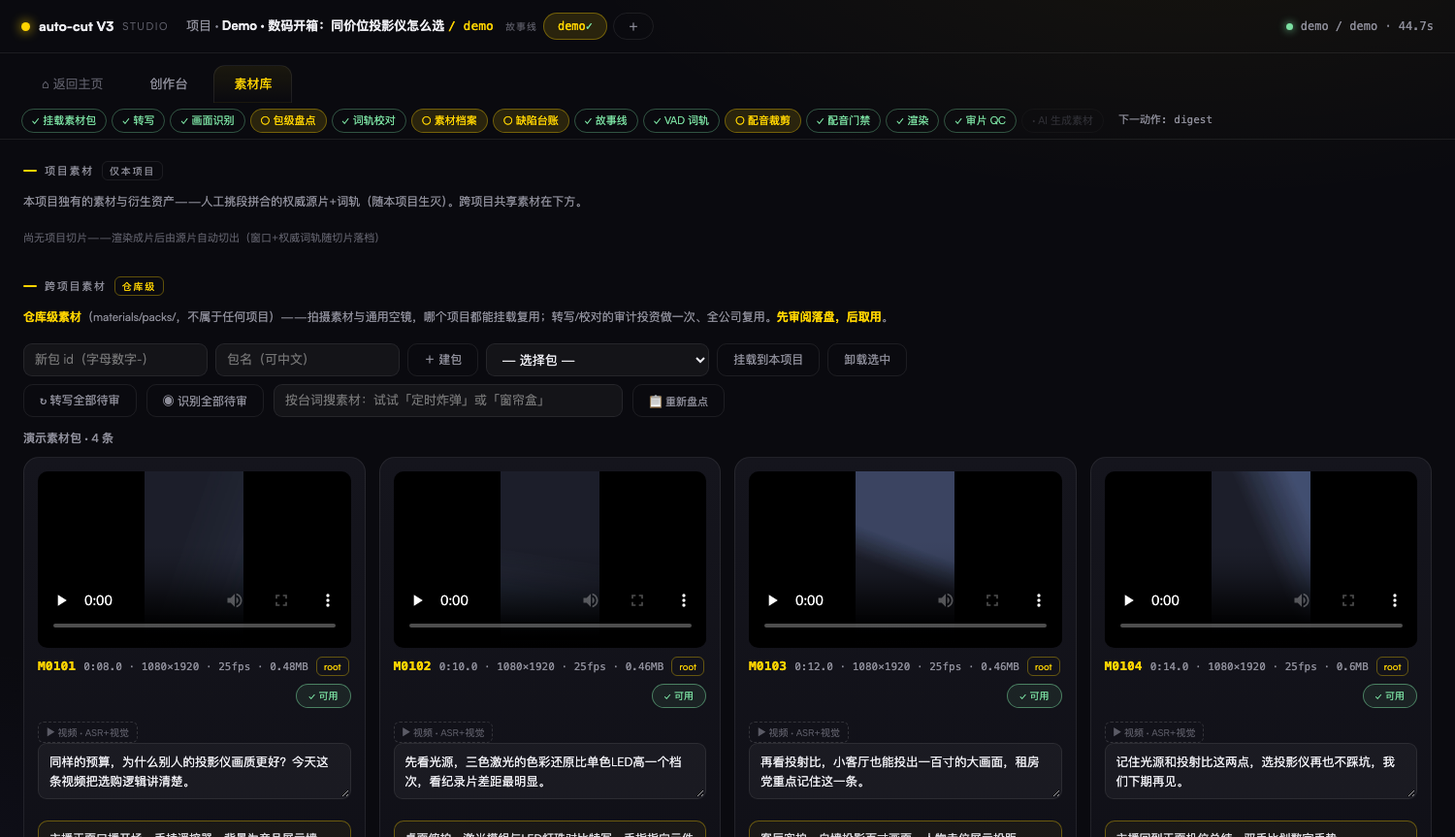
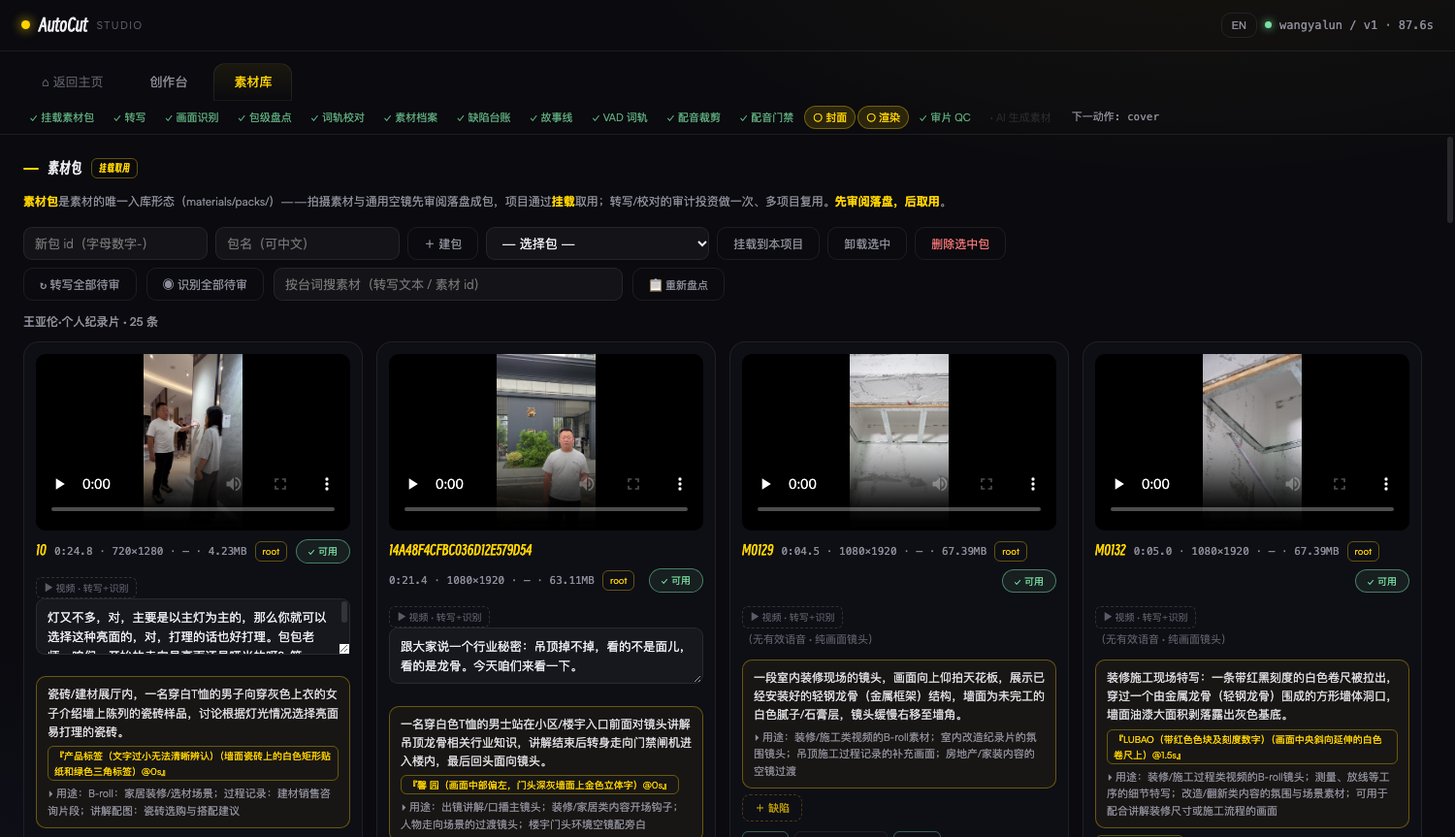
素材库包挂载口径改版 + 前端口径复查（假控件根修）+ 收口清扫
素材库页（Noah 裁定「项目素材/跨项目素材」过时——素材只以挂素材包入库）：
素材包区升顶改「挂载取用」口径，原项目素材区更名「项目切片」降底；
删项目确认/中英 i18n/README 同步，创作台来源下拉对齐「项目切片」。

假控件根修（UI 可设可落盘但后端零消费，grep 全仓铁证）：
- 人设 meta.persona 接进 AI 起草：draft.py _persona_section 注入提示词
  （零漂移纪律），run/CLI --persona/Studio aiDraft 全链带参，手册补载；
- 画幅氛围 meta.style.grade 全仓零消费 → meta 面板撤下拉（Noah 裁定）。

环境根修：studio listen backlog 5→64（_Srv 子类化，必须类属性）——
素材库一屏 25+ 媒体请求并发被内核拒连，T67 冒烟曾因此连红。

收口：孤儿 i18n 键 4 个中英 8 条清零（脚本化扫描），collectStory
t 遮蔽改 tk，README 三截图按新 UI 重拍，封面 tooltip 对齐枚举中文名。

锚 T68a-c（人设注入/零漂移/run 链路签名）；e2e fast 85/85、audit P1-3=0。

diff --git a/studio/index.html b/studio/index.html
@@ -399,12 +399,8 @@ input.req{width:100%;font-size:11px;color:var(--txt);background:rgba(255,255,255
 
 <!-- ═══════════ 操作页 · 素材库 ═══════════ -->
 <section id="s-library">
-  <div class="sec"><span data-i18n="lib.mine">项目素材</span> <span class="packtag" style="border-color:var(--line);color:var(--dim)" data-i18n="lib.mine.tag">仅本项目</span></div>
-  <div class="note" data-i18n="lib.minenote">本项目独有的素材与衍生资产——人工挑段拼合的权威源片+词轨（随本项目生灭）。跨项目共享素材在下方。</div>
-  <div class="libgrid" id="cutgrid"></div>
-
-  <div class="sec" style="margin-top:26px"><span data-i18n="lib.packs">跨项目素材</span> <span class="packtag" data-i18n="lib.packs.tag">仓库级</span></div>
-  <div class="note" data-i18n-html="lib.packsnote"><b class="k">仓库级素材</b>（materials/packs/，不属于任何项目）——拍摄素材与通用空镜，哪个项目都能挂载复用；转写/校对的审计投资做一次、全公司复用。<b class="k">先审阅落盘，后取用</b>。</div>
+  <div class="sec"><span data-i18n="lib.packs">素材包</span> <span class="packtag" data-i18n="lib.packs.tag">挂载取用</span></div>
+  <div class="note" data-i18n-html="lib.packsnote"><b class="k">素材包</b>是素材的唯一入库形态（materials/packs/）——拍摄素材与通用空镜先审阅落盘成包，项目通过<b class="k">挂载</b>取用；转写/校对的审计投资做一次、多项目复用。<b class="k">先审阅落盘，后取用</b>。</div>
   <div style="display:flex;gap:8px;align-items:center;margin-bottom:8px;flex-wrap:wrap">
     <input id="pk-id" data-i18n-ph="pk.id.ph" placeholder="新包 id（字母数字-）" style="max-width:190px">
     <input id="pk-name" data-i18n-ph="pk.name.ph" placeholder="包名（可中文）" style="max-width:190px">
@@ -423,6 +419,10 @@ input.req{width:100%;font-size:11px;color:var(--txt);background:rgba(255,255,255
     <span class="statusline" id="tallstat"></span>
   </div>
   <div id="packgroups"></div>
+
+  <div class="sec" style="margin-top:26px"><span data-i18n="lib.mine">项目切片</span> <span class="packtag" style="border-color:var(--line);color:var(--dim)" data-i18n="lib.mine.tag">仅本项目</span></div>
+  <div class="note" data-i18n="lib.minenote">本项目派生的切片资产——人工挑段拼合的权威源片+词轨（随本项目生灭）。拍摄素材在上方素材包。</div>
+  <div class="libgrid" id="cutgrid"></div>
 </section>
 </main>
 
@@ -448,7 +448,7 @@ zh:{
 'cfg.fmtnote':'画幅是项目级属性（registry/formats.json）：竖版 1080×1920 / 横版 1920×1080 / 方版 1080×1080。创建后进项目 → 素材库页挂载素材包。',
 'cfg.projects':'视频项目','cfg.projnote':'一个项目 = 一个工程，可含<b class="k">多条故事线</b>（同一批素材的不同成片取法）。',
 'cfg.registry':'全盘注册表','cfg.regnote':'注册表是人与 Agent 共用的选材资产库——改完保存即生效，下一次渲染使用新值。',
-'reg.video_types':'视频类型','reg.cover_strategies':'封面策略','reg.narration_modes':'旁白模式','reg.platforms':'平台','reg.voices':'声纹','reg.vtypes':'视频类型档案','reg.plats':'发布平台档案','reg.rhythm':'节奏','reg.draftprompt':'起草要求（进 AI 提示词）','pf.name':'名称','pf.desc':'描述','pf.sec.draft':'起草引导','pf.sec.defaults':'渲染默认值（未设=走回退链）','pf.sec.qc':'QC 时长域（出界 R11 告警；留空=不设）','pf.sec.anchor':'响度锚','pf.empty':'还没有档案——右上「＋ 新增条目」','pf.pick':'左侧选择一个档案','pf.consumers':'生效链：节奏与起草要求 → AI 起草提示词（Studio AI 起草 / draft --type 自动带上）；默认值 → 渲染时补未显式设置的字段；时长区间 → QC R11 出界告警。','pf.consumers.plat':'生效链：故事线 meta.platform → QC R6 响度判定 + 渲染后 loudnorm 两遍精修。','reg.def.subtitle':'默认字幕','reg.def.transition':'默认转场','reg.def.narration':'默认旁白','reg.def.cover':'默认封面策略','reg.qc.dur':'时长区间','reg.qc.min':'下限','reg.qc.max':'上限','reg.unset':'（未设）','reg.save':'保存','reg.lufs':'响度锚 LUFS','reg.lufstol':'容差 ±','reg.file.video_types':'每类型=剪辑方法参数包：节奏/起草要求进 AI 提示词，默认值(字幕/转场/旁白/封面)作渲染回退，QC 区间(如 {"duration_range":[20,120]})供 R11','reg.file.platforms':'每平台=响度锚：qc R6 判定与渲染后 loudnorm 精修都按故事线 meta.platform 查这里','msg.type.applied':'已按类型档案补默认：%s（显式已设的不动）',
+'reg.voices':'声纹','reg.vtypes':'视频类型档案','reg.plats':'发布平台档案','reg.rhythm':'节奏','reg.draftprompt':'起草要求（进 AI 提示词）','pf.name':'名称','pf.desc':'描述','pf.sec.draft':'起草引导','pf.sec.defaults':'渲染默认值（未设=走回退链）','pf.sec.qc':'QC 时长域（出界 R11 告警；留空=不设）','pf.sec.anchor':'响度锚','pf.empty':'还没有档案——右上「＋ 新增条目」','pf.pick':'左侧选择一个档案','pf.consumers':'生效链：节奏与起草要求 → AI 起草提示词（Studio AI 起草 / draft --type 自动带上）；默认值 → 渲染时补未显式设置的字段；时长区间 → QC R11 出界告警。','pf.consumers.plat':'生效链：故事线 meta.platform → QC R6 响度判定 + 渲染后 loudnorm 两遍精修。','reg.def.subtitle':'默认字幕','reg.def.transition':'默认转场','reg.def.narration':'默认旁白','reg.def.cover':'默认封面策略','reg.qc.dur':'时长区间','reg.qc.min':'下限','reg.qc.max':'上限','reg.unset':'（未设）','reg.save':'保存','reg.lufs':'响度锚 LUFS','reg.lufstol':'容差 ±','reg.file.video_types':'每类型=剪辑方法参数包：节奏/起草要求进 AI 提示词，默认值(字幕/转场/旁白/封面)作渲染回退，QC 区间(如 {"duration_range":[20,120]})供 R11','reg.file.platforms':'每平台=响度锚：qc R6 判定与渲染后 loudnorm 精修都按故事线 meta.platform 查这里','msg.type.applied':'已按类型档案补默认：%s（显式已设的不动）',
 'reg.manage':'管理 →','reg.empty':'空','reg.noruntime':'未装运行时','reg.single':'单故事线','reg.mgr':'注册表管理',
 'reg.add':'＋ 新增条目','reg.import':'⬆ 导入素材文件','dlg.close':'✕ 关闭',
 'reg.fmtnote':'文件格式：%s · 注册表是人与 Agent 共用的选材事实源——改完保存即生效，下一次渲染使用新值',
@@ -463,8 +463,9 @@ zh:{
 'cr.beats':'幕序列 · 每幕是多轨上的一刀',
 'cr.beatsnote':'最左一张是<b class="k">封面收口</b>（第 0 张，永远钉在最左侧）。横向即时间轴方向。<b class="k">A 轨</b>主画定时长，<b class="k">B 轨</b>叠加。贴纸按<b class="k">词点</b>触发，音效按<b class="k">幕内时刻</b>混入。改动即结论——<b class="k">自动落盘</b>（停顿 1 秒后保存，右上角芯片可见状态）；金线上的 <b class="k">＋</b> 可在任意幕间插入新幕。',
 'cr.cover':'封面收口','cr.cover.hint':'第 0 张 · 钉在最左',
-'meta.stitle':'故事线标题','meta.type':'视频类型','meta.persona':'人设','meta.platform':'平台','meta.subtitle':'字幕风格','meta.bgm':'BGM','meta.bgmseg':'BGM 段落','meta.bgmloop':'BGM 循环','meta.bgmvol':'BGM 音量','meta.grade':'画幅氛围',
-'meta.bgm.t':'全片底乐，注册表选曲；（无）= 不配乐。Agent 起草用的是同一张注册表','meta.bgmseg.t':'贯穿曲默认段落；幕级音乐轨可再覆盖','meta.bgmloop.t':'段/曲短于所需时长时：自动=按曲长、循环=强制 aloop、不循环=播完补静音','meta.bgmvol.t':'BGM 相对音量 0–1（默认 0.22）','cov.strategy.t':'帧截图=素材代表帧（含人封面唯一真脸路线）/ ai-generated=代表帧底图+提示词保主体生成（底图含真人脸会被平台审核拦）/ output-frame=渲染后成片抽帧 / upload=已上传图','cov.title.t':'核心故事标题——管线本地 drawtext 合成到封面上部（确定性渲染，无假字风险）','cov.beat.t.ai':'AI 底图取自该幕','cov.beat.t.frame':'封面取自该幕','msg.badresp':'服务返回异常','view.words':' 词 · ','view.beats2':' 幕 · ','meta.grade.natural':'自然','mus.bgm.t':'幕级换曲（注册表）','meta.grade.warm':'暖调','meta.grade.cool':'冷调','meta.nobgm':'（无 BGM）','meta.auto':'自动','meta.loop':'循环','meta.noloop':'不循环',
+'meta.stitle':'故事线标题','meta.type':'视频类型','meta.persona':'人设','meta.platform':'平台','meta.subtitle':'字幕风格','meta.bgm':'BGM','meta.bgmseg':'BGM 段落','meta.bgmloop':'BGM 循环','meta.bgmvol':'BGM 音量',
+'meta.persona.t':'讲述者人设——AI 起草时注入提示词，台词与叙事口吻贴合它',
+'meta.bgm.t':'全片底乐，注册表选曲；（无）= 不配乐。Agent 起草用的是同一张注册表','meta.bgmseg.t':'贯穿曲默认段落；幕级音乐轨可再覆盖','meta.bgmloop.t':'段/曲短于所需时长时：自动=按曲长、循环=强制 aloop、不循环=播完补静音','meta.bgmvol.t':'BGM 相对音量 0–1（默认 0.22）','cov.strategy.t':'首帧封面/指定幕帧=素材代表帧+标题本地合成（含真人脸封面的唯一保真路线）/ AI 生成封面=代表帧底图+提示词保主体生成（底图含真人脸会被平台审核拦）/ 成片抽帧=渲染后从成片抽（封面=发布产物本体）/ 外部上传=设计稿直传','cov.title.t':'核心故事标题——管线本地 drawtext 合成到封面上部（确定性渲染，无假字风险）','cov.beat.t.ai':'AI 底图取自该幕','cov.beat.t.frame':'封面取自该幕','msg.badresp':'服务返回异常','view.words':' 词 · ','view.beats2':' 幕 · ','mus.bgm.t':'幕级换曲（注册表）','meta.nobgm':'（无 BGM）','meta.auto':'自动','meta.loop':'循环','meta.noloop':'不循环',
 'cov.strategy':'封面策略','cov.title':'封面标题','cov.beat':'底图幕号','cov.at':'幕内秒','cov.prompt':'提示词',
 'cov.prompt.ph':'保持参考图场景不变，暖色自然光，背景轻微虚化，上半部分留白',
 'cov.prompt.hint':'提示词写法：① 开头固定「保持参考图主体/场景不变」② 只写风格方向（色调/光线/氛围/构图），≤1500 字 ③ 注明「上半部分留白」（标题由管线本地合成在上部）④ <b>禁写「画面出现文字/标题」</b>——AI 画中文=假字 ⑤ 底图含真人脸会被平台审核拦截——含人封面请改用「首帧/指定幕帧」+标题',
@@ -484,8 +485,8 @@ zh:{
 'sub.meta':'精确字幕 · 素材原声转写 · 窗口 %s–%s · 只读（改错字→素材库校对该素材转写；自己写台词→旁白轨切配音；换内容→换素材或改入点/时长）',
 'sub.style.t':'幕级字幕样式（注册表）；留空=继承全局','nar.mode.t':'切换后字幕轨随之分流：dub=台词可编辑 / original=原声转写只读 / none=静音无字幕',
 'mus.inherit':'继承贯穿 BGM','mus.nobgm':'（此幕无 BGM）','mus.seg':'段落','mus.loop':'循环','mus.seg.t':'选用曲内段落（注册表 segments）','mus.loop.t':'段/曲短于幕时循环盖满；取消=播完即静音','mus.noseg':'该曲无段落','mus.whole':'（整条）',
-'lib.mine':'项目素材','lib.mine.tag':'仅本项目','lib.minenote':'本项目独有的素材与衍生资产——人工挑段拼合的权威源片+词轨（随本项目生灭）。跨项目共享素材在下方。',
-'lib.packs':'跨项目素材','lib.packs.tag':'仓库级','lib.packsnote':'<b class="k">仓库级素材</b>（materials/packs/，不属于任何项目）——拍摄素材与通用空镜，哪个项目都能挂载复用；转写/校对的审计投资做一次、全公司复用。<b class="k">先审阅落盘，后取用</b>。',
+'lib.mine':'项目切片','lib.mine.tag':'仅本项目','lib.minenote':'本项目派生的切片资产——人工挑段拼合的权威源片+词轨（随本项目生灭）。拍摄素材在上方素材包。',
+'lib.packs':'素材包','lib.packs.tag':'挂载取用','lib.packsnote':'<b class="k">素材包</b>是素材的唯一入库形态（materials/packs/）——拍摄素材与通用空镜先审阅落盘成包，项目通过<b class="k">挂载</b>取用；转写/校对的审计投资做一次、多项目复用。<b class="k">先审阅落盘，后取用</b>。',
 'pk.id.ph':'新包 id（字母数字-）','pk.name.ph':'包名（可中文）','pk.create':'＋ 建包','pk.mount':'挂载到本项目','pk.unmount':'卸载选中','pk.pick':'— 选择包 —','pk.mounted':'（已挂）',
 'pk.tall':'↻ 转写全部待审','pk.uall':'◉ 识别全部待审','pk.search.ph':'按台词搜素材（转写文本 / 素材 id）','pk.digest':'📋 重新盘点','pk.digest.t':'包级统一理解：导演视角盘点全部素材（题材/资产清单/逐条定位/缺口）。识别有增删后建议重跑——draft 起草会以它开头',
 'pk.empty':'还没有挂载素材包——上方「＋ 建包」后上传素材，或从下拉挂载已有包；挂载后点「↻ 转写全部待审」开始审计',
@@ -501,7 +502,7 @@ zh:{
 'pulse.rendering':'⚙ 渲染中（%s）[%s] %s%——后台/命令行启动的渲染也能看到',
 'msg.unsaved.confirm':'当前故事线有未保存修改，切换将丢弃——继续？',
 'msg.delstory.confirm':'删除故事线「%s」？成片/字幕/预览一并归档到 projects/_attic/，可手工找回。',
-'msg.delproj.confirm':'删除项目「%s」？整个工程目录归档到 projects/_attic/；跨项目素材是仓库级资产，不受影响。',
+'msg.delproj.confirm':'删除项目「%s」？整个工程目录归档到 projects/_attic/；素材包是独立资产（materials/packs/），不受影响。',
 'msg.delbeat.confirm':'删除幕 #%s？自动落盘后不可找回（整条幕的轨道/贴纸/音效一并消失）',
 'msg.deltrack.confirm':'删除该 B 轨叠加？自动落盘后不可找回',
 'msg.deldef.confirm':'删除这条缺陷标记（%s @ %ss）？','msg.delcutdef.confirm':'删除这条缺陷标记？',
@@ -515,7 +516,7 @@ zh:{
 'voice.pickfile.err':'✗ 先选参考音频文件','voice.name.err':'✗ 音色名只能英文/数字/._-','voice.text.err':'✗ 逐字稿必填（零样本克隆硬契约）','voice.registering':'注册中（零样本克隆推理中，请稍候）…','voice.registered':'✓ 已注册 %s','voice.regfail':'注册失败','voice.synth':'试听合成中…（已 %ss，本地 CPU 推理）','voice.testready':'✓ 试听已生成，加载播放中…','voice.playing':'✓ 试听播放中（生成 %ss）','voice.autoplay':'✓ 试听已生成（浏览器拦截自动播放，点页面任意处再听）','voice.testfail':'试听失败','voice.del.confirm':'删除音色 %s？',
 'msg.deleted':'✓ 已删除 %s','msg.delfail':'删除失败','msg.createfail':'创建失败：','msg.savefail':'保存失败：','msg.importfail':'导入失败：',
 'cfg.pdel.t':'删除项目（归档到 _attic，可找回）','reg.bgm':'BGM','reg.subtitles':'字幕样式','reg.transitions':'转场','reg.sfx':'音效','reg.stickers':'贴纸','reg.sample':'样字','msg.regdel.confirm':'删除条目「%s」？\n（素材文件保留在 assets/，可再导入恢复）','msg.regimport.idp':'条目 id（Agent 用它引用）：','msg.regimport.dup':'id 已存在','msg.regadd.idp':'新条目 id（字母/数字/下划线/中划线，Agent 用它引用）：',
-'src.project':'（项目自有切片）','src.project.suffix':' · 项目自有',
+'src.project':'（项目切片）','src.project.suffix':' · 项目切片',
 'msg.wizard.noname':'先填项目名','msg.wizard.done':'✓ 项目已创建：%s',
 'msg.pk.noid':'先填包 id','msg.pk.created':'✓ 已建包 %s','msg.pk.fail':'建包失败：','msg.pk.nosel':'先选包','msg.pk.mountok':'已挂载','msg.pk.unmountok':'已卸载','msg.pk.fail2':'%s失败：%s\n（挂载要求包已存在；卸载不删包本身，素材仍在 materials/packs/）','msg.pk.reqfail':'挂载/卸载请求失败：','pk.del':'删除选中包','msg.pk.delconfirm':'删除包「%s」？\n（归档到 materials/_attic 可找回；所有项目的挂载一并摘除）','msg.pk.delok':'已删除（归档）','cfg.stories':'%s 条故事线','cfg.stories.done':'%s 条已出片',
 'msg.draft.d':'用开场钩子+空镜，起一条 3 幕口播线','msg.draft.busy':'✨ 起草中…（约1分钟）','msg.draft.busy2':'AI 正在读素材档案起草故事线…','msg.draft.done':'✓ AI 草稿已落盘：%s 幕 · %s','msg.draft.fail':'起草失败：',
@@ -540,7 +541,7 @@ en:{
 'cfg.fmtnote':'Format is project-level (registry/formats.json): vertical 1080×1920 / landscape 1920×1080 / square 1080×1080. After creating, open the project → Library tab to mount packs.',
 'cfg.projects':'Video projects','cfg.projnote':'A project = one workspace, may hold <b class="k">multiple storylines</b> (different cuts of the same materials).',
 'cfg.registry':'Global registries','cfg.regnote':'Registries are a shared material library for humans and Agents — changes take effect on save; the next render uses the new values.',
-'reg.video_types':'Video types','reg.cover_strategies':'Cover strategies','reg.narration_modes':'Narration modes','reg.platforms':'Platforms','reg.voices':'Voices','reg.vtypes':'Video type profiles','reg.plats':'Platform profiles','reg.rhythm':'Rhythm','reg.draftprompt':'Drafting prompt (fed to AI)','pf.name':'Name','pf.desc':'Description','pf.sec.draft':'Drafting guidance','pf.sec.defaults':'Render defaults (unset = fallback chain)','pf.sec.qc':'QC duration domain (out of range -> R11 warn; empty = none)','pf.sec.anchor':'Loudness anchor','pf.empty':'No profiles yet - use the Add button top right','pf.pick':'Pick a profile on the left','pf.consumers':'Effect chain: rhythm & drafting prompt -> the AI drafting prompt (Studio AI draft / draft --type carries it); defaults -> render fills unset fields; duration range -> QC R11 out-of-range warn.','pf.consumers.plat':'Effect chain: storyline meta.platform -> QC R6 loudness verdict + post-render two-pass loudnorm refinement.','reg.def.subtitle':'Default subtitle','reg.def.transition':'Default transition','reg.def.narration':'Default narration','reg.def.cover':'Default cover strategy','reg.qc.dur':'Duration range','reg.qc.min':'min','reg.qc.max':'max','reg.unset':'(unset)','reg.save':'Save','reg.lufs':'LUFS anchor','reg.lufstol':'Tolerance ±','reg.file.video_types':'Each type = an editing-method parameter pack: rhythm/drafting prompt go into the AI prompt, defaults (subtitle/transition/narration/cover) act as render fallbacks, QC range (e.g. {"duration_range":[20,120]}) feeds R11','reg.file.platforms':'Each platform = a loudness anchor: qc R6 and the post-render loudnorm refinement both resolve it from the storyline\'s meta.platform','msg.type.applied':'Applied type-profile defaults: %s (explicit settings untouched)',
+'reg.voices':'Voices','reg.vtypes':'Video type profiles','reg.plats':'Platform profiles','reg.rhythm':'Rhythm','reg.draftprompt':'Drafting prompt (fed to AI)','pf.name':'Name','pf.desc':'Description','pf.sec.draft':'Drafting guidance','pf.sec.defaults':'Render defaults (unset = fallback chain)','pf.sec.qc':'QC duration domain (out of range -> R11 warn; empty = none)','pf.sec.anchor':'Loudness anchor','pf.empty':'No profiles yet - use the Add button top right','pf.pick':'Pick a profile on the left','pf.consumers':'Effect chain: rhythm & drafting prompt -> the AI drafting prompt (Studio AI draft / draft --type carries it); defaults -> render fills unset fields; duration range -> QC R11 out-of-range warn.','pf.consumers.plat':'Effect chain: storyline meta.platform -> QC R6 loudness verdict + post-render two-pass loudnorm refinement.','reg.def.subtitle':'Default subtitle','reg.def.transition':'Default transition','reg.def.narration':'Default narration','reg.def.cover':'Default cover strategy','reg.qc.dur':'Duration range','reg.qc.min':'min','reg.qc.max':'max','reg.unset':'(unset)','reg.save':'Save','reg.lufs':'LUFS anchor','reg.lufstol':'Tolerance ±','reg.file.video_types':'Each type = an editing-method parameter pack: rhythm/drafting prompt go into the AI prompt, defaults (subtitle/transition/narration/cover) act as render fallbacks, QC range (e.g. {"duration_range":[20,120]}) feeds R11','reg.file.platforms':'Each platform = a loudness anchor: qc R6 and the post-render loudnorm refinement both resolve it from the storyline\'s meta.platform','msg.type.applied':'Applied type-profile defaults: %s (explicit settings untouched)',
 'reg.manage':'Manage →','reg.empty':'empty','reg.noruntime':'runtime not installed','reg.single':'single storyline','reg.mgr':'Registry manager',
 'reg.add':'＋ Add entry','reg.import':'⬆ Import asset file','dlg.close':'✕ Close',
 'reg.fmtnote':'File: %s · Registries are the shared source of truth for humans and agents — saved changes apply to the next render',
@@ -555,8 +556,9 @@ en:{
 'cr.beats':'Beat sequence · each beat is one cut on the timeline',
 'cr.beatsnote':'The leftmost card is the <b class="k">cover</b> (card 0, always pinned first). Horizontal = timeline direction. <b class="k">A track</b> is the main picture and sets duration; <b class="k">B track</b> overlays. Stickers trigger on <b class="k">words</b>, SFX mix at <b class="k">beat-relative times</b>. Edits are conclusions — <b class="k">autosaved</b> (1s after you pause; watch the chip top-right); the <b class="k">＋</b> on the gold line inserts a beat anywhere.',
 'cr.cover':'Cover','cr.cover.hint':'Card 0 · pinned left',
-'meta.stitle':'Storyline title','meta.type':'Video type','meta.persona':'Persona','meta.platform':'Platform','meta.subtitle':'Subtitle style','meta.bgm':'BGM','meta.bgmseg':'BGM segment','meta.bgmloop':'BGM loop','meta.bgmvol':'BGM volume','meta.grade':'Grade',
-'meta.bgm.t':'Whole-film bed music from the registry; (none) = no music. The drafting agent reads the same registry','meta.bgmseg.t':'Default segment of the through-track; beat-level music can override','meta.bgmloop.t':'When segment/track is shorter than needed: Auto = by track length, Loop = force aloop, No loop = pad silence','meta.bgmvol.t':'BGM relative volume 0-1 (default 0.22)','cov.strategy.t':'beat-frame = representative material frame (only real-face route for people covers) / ai-generated = base frame + prompt preserving subject (real faces in base get blocked by platform review) / output-frame = frame from the rendered cut / upload = uploaded image','cov.title.t':'Core story title — composited onto the upper area by local drawtext (deterministic, no fake glyphs)','cov.beat.t.ai':'AI base image taken from this beat','cov.beat.t.frame':'Cover taken from this beat','msg.badresp':'service returned an error','view.words':' words · ','view.beats2':' beats · ','meta.grade.natural':'Natural','mus.bgm.t':'Beat-level track override (registry)','meta.grade.warm':'Warm','meta.grade.cool':'Cool','meta.nobgm':'(No BGM)','meta.auto':'Auto','meta.loop':'Loop','meta.noloop':'No loop',
+'meta.stitle':'Storyline title','meta.type':'Video type','meta.persona':'Persona','meta.platform':'Platform','meta.subtitle':'Subtitle style','meta.bgm':'BGM','meta.bgmseg':'BGM segment','meta.bgmloop':'BGM loop','meta.bgmvol':'BGM volume',
+'meta.persona.t':'Narrator persona — injected into the AI drafting prompt; lines and tone follow it',
+'meta.bgm.t':'Whole-film bed music from the registry; (none) = no music. The drafting agent reads the same registry','meta.bgmseg.t':'Default segment of the through-track; beat-level music can override','meta.bgmloop.t':'When segment/track is shorter than needed: Auto = by track length, Loop = force aloop, No loop = pad silence','meta.bgmvol.t':'BGM relative volume 0-1 (default 0.22)','cov.strategy.t':'first-frame/beat-frame = representative material frame + locally composited title (the only real-face route for people covers) / ai-generated = base frame + prompt preserving subject (real faces in base get blocked by platform review) / output-frame = frame from the rendered cut / upload = uploaded image','cov.title.t':'Core story title — composited onto the upper area by local drawtext (deterministic, no fake glyphs)','cov.beat.t.ai':'AI base image taken from this beat','cov.beat.t.frame':'Cover taken from this beat','msg.badresp':'service returned an error','view.words':' words · ','view.beats2':' beats · ','mus.bgm.t':'Beat-level track override (registry)','meta.nobgm':'(No BGM)','meta.auto':'Auto','meta.loop':'Loop','meta.noloop':'No loop',
 'cov.strategy':'Cover strategy','cov.title':'Cover title','cov.beat':'Base beat','cov.at':'Offset (s)','cov.prompt':'Prompt',
 'cov.prompt.ph':'Keep the reference scene unchanged, warm natural light, slight background blur, leave the top empty',
 'cov.prompt.hint':'Prompt rules: ① start with "keep the reference subject/scene unchanged" ② describe style only (tone/light/mood/composition), ≤1500 chars ③ state "leave the upper area empty" (the title is composited locally by the pipeline) ④ <b>never ask for text/titles in the image</b> — AI renders fake glyphs ⑤ real faces in the base image get blocked by platform review — for people covers use "first frame / beat frame" + title instead',
@@ -576,8 +578,8 @@ en:{
 'sub.meta':'Precise subtitles · source transcript · window %s–%s · read-only (fix typos → proofread the material in Library; write your own lines → switch Narration to dub; different content → swap material or in/duration)',
 'sub.style.t':'Beat-level subtitle style (registry); empty = inherit global','nar.mode.t':'Subtitles follow the mode: dub = editable lines / original = source transcript read-only / none = silent',
 'mus.inherit':'Inherit global BGM','mus.nobgm':'(no BGM this beat)','mus.seg':'Segment','mus.loop':'Loop','mus.seg.t':'Pick an intra-track segment (registry segments)','mus.loop.t':'Loop to cover when the segment/track is shorter than the beat; off = silence after it ends','mus.noseg':'No segments on this track','mus.whole':'(whole track)',
-'lib.mine':'Project materials','lib.mine.tag':'this project only','lib.minenote':'Materials and derived assets owned by this project — hand-picked source cuts with authoritative word tracks (live and die with the project). Cross-project shared materials below.',
-'lib.packs':'Shared materials','lib.packs.tag':'repo-wide','lib.packsnote':'<b class="k">Repo-wide materials</b> (materials/packs/, owned by no project) — shoots and generic b-roll, mountable by any project; transcribe/proofread once, reuse everywhere. <b class="k">Review and file first, then use</b>.',
+'lib.mine':'Project cuts','lib.mine.tag':'this project only','lib.minenote':'Cut assets derived within this project — hand-picked source clips with authoritative word tracks (live and die with the project). Footage lives in the packs above.',
+'lib.packs':'Material packs','lib.packs.tag':'mount to use','lib.packsnote':'<b class="k">Material packs</b> are the only way materials enter the library (materials/packs/) — shoots and generic b-roll are reviewed and filed into packs first, then mounted into projects; transcribe/proofread once, reuse across projects. <b class="k">Review and file first, then use</b>.',
 'pk.id.ph':'New pack id (letters/digits/-)','pk.name.ph':'Pack name (any language)','pk.create':'＋ New pack','pk.mount':'Mount to this project','pk.unmount':'Unmount selected','pk.pick':'— Pick a pack —','pk.mounted':'(mounted)',
 'pk.tall':'↻ Transcribe all pending','pk.uall':'◉ Identify all pending','pk.search.ph':'Search by transcript text or material id','pk.digest':'📋 Re-digest','pk.digest.t':'Pack-level unified understanding: director-view inventory (theme/assets/per-clip roles/gaps). Re-run after identifications change — drafting starts from it',
 'pk.empty':'No packs mounted yet — "＋ New pack" above then upload materials, or mount an existing pack from the dropdown; then "↻ Transcribe all pending" to start auditing',
@@ -593,7 +595,7 @@ en:{
 'pulse.rendering':'⚙ Rendering (%s) [%s] %s% — visible even for CLI/background renders',
 'msg.unsaved.confirm':'Current storyline has unsaved changes; switching discards them — continue?',
 'msg.delstory.confirm':'Delete storyline "%s"? Final cut/subtitles/previews are archived to projects/_attic/ — manually recoverable.',
-'msg.delproj.confirm':'Delete project "%s"? The whole workspace is archived to projects/_attic/; shared packs are repo-level assets and unaffected.',
+'msg.delproj.confirm':'Delete project "%s"? The whole workspace is archived to projects/_attic/; material packs are standalone assets (materials/packs/) and unaffected.',
 'msg.delbeat.confirm':'Delete beat #%s? Unrecoverable after autosave (its tracks/stickers/SFX go with it)',
 'msg.deltrack.confirm':'Delete this B-track overlay? Unrecoverable after autosave',
 'msg.deldef.confirm':'Delete this defect mark (%s @ %ss)?','msg.delcutdef.confirm':'Delete this defect mark?',
@@ -607,7 +609,7 @@ en:{
 'voice.pickfile.err':'✗ Pick a reference audio file first','voice.name.err':'✗ Voice name allows only letters/digits/._-','voice.text.err':'✗ Transcript is required (zero-shot cloning hard contract)','voice.registering':'Registering (zero-shot cloning inference, please wait)…','voice.registered':'✓ Registered %s','voice.regfail':'registration failed','voice.synth':'Synthesizing sample… (%ss elapsed, local CPU inference)','voice.testready':'✓ Sample ready, loading…','voice.playing':'✓ Sample playing (generated in %ss)','voice.autoplay':'✓ Sample ready (browser blocked autoplay — click anywhere to hear it)','voice.testfail':'sample failed','voice.del.confirm':'Delete voice %s?',
 'msg.deleted':'✓ Deleted %s','msg.delfail':'delete failed','msg.createfail':'Create failed: ','msg.savefail':'Save failed: ','msg.importfail':'Import failed: ',
 'cfg.pdel.t':'Delete project (archived to _attic, recoverable)','reg.bgm':'BGM','reg.subtitles':'Subtitle styles','reg.transitions':'Transitions','reg.sfx':'SFX','reg.stickers':'Stickers','reg.sample':'Aa','msg.regdel.confirm':'Delete entry "%s"?\n(the asset file stays in assets/ and can be re-imported)','msg.regimport.idp':'Entry id (the agent references it):','msg.regimport.dup':'id already exists','msg.regadd.idp':'New entry id (letters/digits/underscore/dash, the agent references it):',
-'src.project':'(project cuts)','src.project.suffix':' · project-owned',
+'src.project':'(project cuts)','src.project.suffix':' · project cut',
 'msg.wizard.noname':'Enter a project name first','msg.wizard.done':'✓ Project created: %s',
 'msg.pk.noid':'Enter a pack id first','msg.pk.created':'✓ Pack created: %s','msg.pk.fail':'Create pack failed: ','msg.pk.nosel':'Pick a pack first','msg.pk.mountok':'Mounted','msg.pk.unmountok':'Unmounted','msg.pk.fail2':'%s failed: %s\n(mounting requires the pack to exist; unmounting does not delete the pack — materials stay in materials/packs/)','msg.pk.reqfail':'Mount/unmount request failed: ','pk.del':'Delete selected pack','msg.pk.delconfirm':'Delete pack "%s"?\n(archived to materials/_attic, recoverable; removed from every project\'s mounts)','msg.pk.delok':'Deleted (archived)','cfg.stories':'%s storylines','cfg.stories.done':'%s rendered',
 'msg.draft.d':'draft a 3-beat narration line with a hook opener and b-roll','msg.draft.busy':'✨ Drafting… (~1 min)','msg.draft.busy2':'AI is reading the material dossier and drafting a storyline…','msg.draft.done':'✓ AI draft saved: %s beats · %s','msg.draft.fail':'Draft failed: ',
@@ -1209,14 +1211,13 @@ function buildCreator(){
   $('metabar').innerHTML=
     '<div class="mf"><label data-i18n="meta.stitle">'+esc(t('meta.stitle'))+'</label><input type="text" value="'+esc(DRAFT.title||'')+'" oninput="DRAFT.title=this.value"></div>'+
     '<div class="mf"><label data-i18n="meta.type">'+esc(t('meta.type'))+'</label><select onchange="onTypeChange(this.value)">'+optHtml(en.video_types,m.type)+'</select><span id="vtype-hint" style="font-size:10px;color:var(--faint)">'+esc(vtypeHint(m.type))+'</span></div>'+
-    '<div class="mf"><label data-i18n="meta.persona">'+esc(t('meta.persona'))+'</label><input type="text" value="'+esc(m.persona)+'" oninput="DRAFT.meta.persona=this.value"></div>'+
+    '<div class="mf"><label data-i18n="meta.persona">'+esc(t('meta.persona'))+'</label><input type="text" value="'+esc(m.persona)+'" oninput="DRAFT.meta.persona=this.value" title="'+esc(t('meta.persona.t'))+'"></div>'+
     '<div class="mf"><label data-i18n="meta.platform">'+esc(t('meta.platform'))+'</label><select onchange="onPlatformChange(this.value)">'+optHtml(en.platforms,m.platform)+'</select><span id="plat-hint" style="font-size:10px;color:var(--faint)">'+esc(platformHint(m.platform))+'</span></div>'+
     '<div class="mf"><label data-i18n="meta.subtitle">'+esc(t('meta.subtitle'))+'</label><select onchange="DRAFT.meta.style.subtitle=this.value">'+optHtml(regList('subtitles'),m.style.subtitle)+'</select></div>'+
     '<div class="mf"><label data-i18n="meta.bgm">'+esc(t('meta.bgm'))+'</label><select onchange="DRAFT.meta.audio.bgm_id=this.value||null;renderBeats()" title="'+esc(t('meta.bgm.t'))+'">'+optHtml([{id:'',name:t('meta.nobgm')}].concat(regList('bgm')),m.audio.bgm_id||'')+'</select></div>'+
     (m.audio.bgm_id?'<div class="mf"><label data-i18n="meta.bgmseg">'+esc(t('meta.bgmseg'))+'</label><select onchange="DRAFT.meta.audio.bgm_segment=this.value||null;renderBeats()" title="'+esc(t('meta.bgmseg.t'))+'">'+segOptsHtml(m.audio.bgm_id,m.audio.bgm_segment)+'</select></div>':'')+
     (m.audio.bgm_id?'<div class="mf"><label data-i18n="meta.bgmloop">'+esc(t('meta.bgmloop'))+'</label><select onchange="DRAFT.meta.audio.bgm_loop=this.value===\'\'?null:this.value===\'true\'" title="'+esc(t('meta.bgmloop.t'))+'"><option value="">'+esc(t('meta.auto'))+'</option><option value="true"'+(m.audio.bgm_loop===true?' selected':'')+'>'+esc(t('meta.loop'))+'</option><option value="false"'+(m.audio.bgm_loop===false?' selected':'')+'>'+esc(t('meta.noloop'))+'</option></select></div>':'')+
-    '<div class="mf"><label data-i18n="meta.bgmvol">'+esc(t('meta.bgmvol'))+'</label><input type="text" value="'+esc(String(nz(m.audio.bgm_volume,0.22)))+'" onchange="DRAFT.meta.audio.bgm_volume=parseFloat(this.value)||0.22" title="'+esc(t('meta.bgmvol.t'))+'"></div>'+
-    '<div class="mf"><label data-i18n="meta.grade">'+esc(t('meta.grade'))+'</label><select onchange="DRAFT.meta.style.grade=this.value">'+optHtml([{id:'natural',name:t('meta.grade.natural')},{id:'warm',name:t('meta.grade.warm')},{id:'cool',name:t('meta.grade.cool')}],m.style.grade)+'</select></div>';
+    '<div class="mf"><label data-i18n="meta.bgmvol">'+esc(t('meta.bgmvol'))+'</label><input type="text" value="'+esc(String(nz(m.audio.bgm_volume,0.22)))+'" onchange="DRAFT.meta.audio.bgm_volume=parseFloat(this.value)||0.22" title="'+esc(t('meta.bgmvol.t'))+'"></div>';
   $('coverops').innerHTML=
     '<div class="mf"><label data-i18n="cov.strategy">'+esc(t('cov.strategy'))+'</label><select onchange="DRAFT.meta.cover.strategy=this.value;buildCreator()" title="'+esc(t('cov.strategy.t'))+'">'+optHtml(en.cover_strategies,m.cover.strategy)+'</select></div>'+
     '<div class="mf"><label data-i18n="cov.title">'+esc(t('cov.title'))+'</label><input type="text" value="'+esc(m.cover.title_text)+'" oninput="DRAFT.meta.cover.title_text=this.value" title="'+esc(t('cov.title.t'))+'"></div>'+
@@ -1403,10 +1404,10 @@ function collectStory(){
         /* 序列化保真（2026-09-14）：words_from/audio 等管线字段不由 UI 编辑，但必须在保存时原样透传
            ——曾实锤：手工故事线经前端落盘后 words_from 全丢，真实词轨字幕静默退化为均分 */
         Object.fromEntries(Object.entries(b.narration||{}).filter(([k])=>!['mode'].includes(k)))),
-      tracks:(b.tracks||[]).map(t=>({role:t.role||'A',source_id:t.source_id||null,
-        cut_index:(t.cut_index===undefined||t.cut_index==='')?null:+t.cut_index,
-        src_in:+nz(t.src_in,0),duration:+nz(t.duration,3),
-        pos:t.pos,scale:+nz(t.scale,0.3),op:t.op||'overlay-pip',requirement:t.requirement||''})),
+      tracks:(b.tracks||[]).map(tk=>({role:tk.role||'A',source_id:tk.source_id||null,
+        cut_index:(tk.cut_index===undefined||tk.cut_index==='')?null:+tk.cut_index,
+        src_in:+nz(tk.src_in,0),duration:+nz(tk.duration,3),
+        pos:tk.pos,scale:+nz(tk.scale,0.3),op:tk.op||'overlay-pip',requirement:tk.requirement||''})),
       music:{inherit:b.music?b.music.inherit!==false:true,
              bgm:(b.music&&b.music.inherit===false)?(b.music.bgm||null):null,
              segment:(b.music&&b.music.segment)||null,   // 段落/循环序列化保真（2026-09-15）：白名单重建曾丢字段
@@ -1496,7 +1497,7 @@ async function aiDraft(){
   setStatus(t('msg.draft.busy2'));
   try{
     const r=await(await fetch('/api/draft/'+P.name,{method:'POST',
-      headers:{'Content-Type':'application/json'},body:JSON.stringify({intent:intent,type:(DRAFT.meta||{}).type||null})})).json();
+      headers:{'Content-Type':'application/json'},body:JSON.stringify({intent:intent,type:(DRAFT.meta||{}).type||null,persona:(DRAFT.meta||{}).persona||null})})).json();
     if(r.ok){setStatus(t('msg.draft.done',r.sid+'（'+r.beats+'）',String(r.title||'')));
       await openProj(P.name,r.sid);showTab('create');}
     else alert(t('msg.draft.fail')+(r.err||''));

diff --git a/autocut3/draft.py b/autocut3/draft.py
@@ -213,13 +213,21 @@ def _vtype_section(profile):
                ("；".join(hints)) if hints else ""))
 
 
-def build_prompt(dossier, intent, transitions, profile=None):
+def _persona_section(persona):
+    """讲述者人设 → 提示词段落（无人设返回空串，prompt 零漂移——与 _vtype_section 同纪律）。"""
+    if not persona:
+        return ""
+    return ("\n[人设]\n讲述者人设：%s——台词措辞与叙事口吻贴合此人设\n" % persona)
+
+
+def build_prompt(dossier, intent, transitions, profile=None, persona=None):
     return """你是装修口播短视频的故事线起草师。基于素材档案起草一条新故事线。
 
 [素材档案]（台词以人工校对为准；标【拍摄废片——禁用】的素材绝对不可使用）
 %s
 
 [用户意图]
+%s
 %s
 %s
 %s
@@ -260,7 +268,7 @@ def build_prompt(dossier, intent, transitions, profile=None):
 "subtitle":{"style":"字幕样式id 或省略"},
 "effects":{"stickers":[{"asset":"贴纸样式id","text":"≤6字强调短语","at_word":"触发词","duration":1.2,"pos":"top-center"}],
 "sfx":[{"asset":"音效id","at":0.0,"duration":0.4}]}}],
-"audio":{"bgm_id":"BGM id 或 null（全片不配乐就 null）"}}""" % (dossier, intent, _vtype_section(profile), _effect_catalog(), ", ".join(transitions) or "（无转场注册）",
+"audio":{"bgm_id":"BGM id 或 null（全片不配乐就 null）"}}""" % (dossier, intent, _persona_section(persona), _vtype_section(profile), _effect_catalog(), ", ".join(transitions) or "（无转场注册）",
     ", ".join("%s(%s：%s)" % (k, v.get("name", ""), (v.get("desc") or "")[:24]) for k, v in _bgm_reg().items() if not k.startswith("_")) or "（无 BGM 注册，bgm_id 填 null）")
 
 
@@ -469,9 +477,10 @@ def save_storyline(pid, draft, beats, vtype=None):
     return sid
 
 
-def run(project, intent, packs=None, save=True, vtype=None):
+def run(project, intent, packs=None, save=True, vtype=None, persona=None):
     """主入口（Studio 与 CLI 共用）。返回 (sid or None, draft, beats)。
-    vtype：视频类型档案 id（registry/video_types.json）——注入起草提示词 + 落盘 meta.type。"""
+    vtype：视频类型档案 id（registry/video_types.json）——注入起草提示词 + 落盘 meta.type。
+    persona：讲述者人设（故事线 meta.persona）——注入起草提示词；落盘靠 meta 继承链。"""
     packs = packs or project_packs(project)
     if not packs:
         raise RuntimeError("项目未挂载任何素材包")
@@ -493,7 +502,7 @@ def run(project, intent, packs=None, save=True, vtype=None):
         print("  ⚠ 未知视频类型 %r（registry/video_types.json 无此档案）——提示词退化为通用" % vtype, flush=True)
     if profile:
         print("  视频类型档案：%s（%s）" % (profile.get("name"), profile.get("rhythm")), flush=True)
-    messages = [{"role": "user", "content": build_prompt(dossier, intent, transitions, profile)}]
+    messages = [{"role": "user", "content": build_prompt(dossier, intent, transitions, profile, persona=persona)}]
     # nohup 重定向=全缓冲：不刷这句，后台跑全程日志 0 字节，Agent 只能瞎轮询（2026-09-18 张亮翔快线实锤）
     print("  档案 %d 字 → LLM 起草中（1-3 分钟无输出属正常）…" % len(dossier), flush=True)
     text = None
@@ -522,8 +531,9 @@ def main():
     ap.add_argument("--save", action="store_true", help="落盘为新故事线（不加则只打印草稿）")
     ap.add_argument("--dub", action="store_true", help="逐幕 AI 配音（TTS，narration.mode=dub）")
     ap.add_argument("--type", help="视频类型档案 id（registry/video_types.json——结构化节奏引导）")
+    ap.add_argument("--persona", help="讲述者人设（注入起草提示词；等同故事线 meta.persona）")
     a = ap.parse_args()
-    sid, draft, beats = run(a.project, a.intent, packs=a.packs.split(",") if a.packs else None, save=a.save, vtype=a.type)
+    sid, draft, beats = run(a.project, a.intent, packs=a.packs.split(",") if a.packs else None, save=a.save, vtype=a.type, persona=a.persona)
     if a.dub and sid and beats:
         # R3：逐幕配音（story=口播词）→ narration.mode=dub + audio 路径写回故事线
         import tts

diff --git a/tests/e2e.py b/tests/e2e.py
@@ -2977,6 +2977,7 @@ def main():
     t65_human_agent_equivalence()
     t66_chinese_naming()
     t67_browser_smoke()
+    t68_persona_prompt()
     t25_rmw_smoke()
     print("══ 结果：%d 通过 / %d 失败 ══" % (len(PASS), len(FAIL)))
     fixtures.remove()  # 夹具即用即删（无论成败——曾只挂在 GREEN 分支，失败路径残留测试数据）
@@ -3155,6 +3156,23 @@ def t67_browser_smoke():
            if not (all(v.values()) if isinstance(v, dict) else v)}
     check("T67b 关键路径渲染（主页/开项目/切换器/tab×2/抽屉×7）", not bad, "bad=%r" % bad)
     check("T67c 无断串泄漏（处理器属性不成可见文本）", R.get("leak") == [], "leak=%r" % R.get("leak"))
+
+
+# ---------------------------------------------------------------- T68 人设注入起草提示词（2026-10-20）
+def t68_persona_prompt():
+    """meta.persona 曾是零消费假字段（UI 可设可落盘，draft/渲染全不读）——Noah 裁定接进
+    起草提示词。锚：注入生效 / 无人设零漂移 / run 链路参数在。"""
+    import inspect
+    sys.path.insert(0, os.path.join(ROOT, "autocut3"))
+    import draft as D
+    p_with = D.build_prompt("档" * 60, "起一条口播线", [], None, persona="三代同堂宝妈")
+    check("T68a 人设注入提示词", "讲述者人设：三代同堂宝妈" in p_with and "[人设]" in p_with,
+          "hit=%s" % ("[人设]" in p_with))
+    p_none = D.build_prompt("档" * 60, "起一条口播线", [], None)
+    check("T68b 无人设零漂移（提示词无 [人设] 段）", "[人设]" not in p_none, "")
+    check("T68c run 链路接受 persona（Studio/CLI 共用入口）",
+          "persona" in inspect.signature(D.run).parameters,
+          "params=%s" % list(inspect.signature(D.run).parameters))
 
 
 

diff --git a/studio.py b/studio.py
@@ -1053,7 +1053,8 @@ class H(BaseHTTPRequestHandler):
             try:
                 sys.path.insert(0, os.path.join(ROOT, "autocut3"))
                 import draft as D
-                sid, draft, beats = D.run(name, intent, save=True, vtype=str(body.get("type") or "").strip() or None)
+                sid, draft, beats = D.run(name, intent, save=True, vtype=str(body.get("type") or "").strip() or None,
+                                          persona=str(body.get("persona") or "").strip() or None)
             except SystemExit as e:
                 return self._json({"err": "起草前置缺失（LLM key 未配置？）：%s" % (str(e.code) if e.code else "")[:180]}, 500)  # sys.exit 在 HTTP 线程里会打穿请求（Claude P2-②）
             except Exception as e:
@@ -1393,6 +1394,11 @@ if __name__ == "__main__":
         sys.stdout.reconfigure(encoding="utf-8", errors="replace")
         sys.stderr.reconfigure(encoding="utf-8", errors="replace")
     port = int(sys.argv[1]) if len(sys.argv) > 1 else 8765
-    srv = ThreadingHTTPServer(("127.0.0.1", port), H)  # 只绑本机：素材不出本机
+    # 默认 listen backlog=5：素材库一屏 25+ 个媒体请求（HTTP/1.0 每请求一条连接）+ 前端轮询
+    # 并发一挤就被内核拒连（客户端 Failed to fetch，2026-10-20 T67 冒烟实锤）——backlog 放宽到 64；
+    # 必须落成类属性：构造函数内就 listen，事后改实例属性无效
+    class _Srv(ThreadingHTTPServer):
+        request_queue_size = 64
+    srv = _Srv(("127.0.0.1", port), H)  # 只绑本机：素材不出本机
     print(f"Studio: http://localhost:{port}")
     srv.serve_forever()

diff --git a/剪辑Agent操作手册.md b/剪辑Agent操作手册.md
@@ -141,10 +141,12 @@ python3 autocut3/draft.py <pid> --intent "<一句话意图>" --save
 # 配音版（整线 TTS）：python3 autocut3/draft.py <pid> --intent "..." --save --dub
 ```
 - `--intent` 必填（AI 起草路线）。不加 `--save` 只打印不落盘。
+- `--persona "<讲述者人设>"`（2026-10-20 起）：注入起草提示词的 [人设] 段，台词/口吻贴合；
+  等同故事线 `meta.persona`（Studio 创作台填了人设，点「AI 起草」自动带上；新线靠 meta 继承链落盘）。
 - **手写路线**：故事线门也接受人/Agent 手写——落盘 `storylines/<名字>.json`
   （Studio 创作台 / `POST /api/storyline` / 直接写文件）即过门，编排器不问出处；
-  手写线同样吃 vadwords→dubfit→渲染全链。大纲/意图想结构化传给 LLM 的目前只有
-  `--intent` 一句话自由文本一条通道（outline 是 LLM 输出字段，不是输入）。
+  手写线同样吃 vadwords→dubfit→渲染全链。传给 LLM 的结构化通道：`--intent` 自由文本
+  + `--type` 类型档案 + `--persona` 人设（outline 是 LLM 输出字段，不是输入）。
 - **配音音色**：`--dub` 逐幕调 `tts.synth(story)`，音色取 services.json `tts` 段配置
   （本地 audio8 音色按需注册，现存音色以 `ls ~/.local/share/autocut3/audio8/voices/` 为准）。
   **人侧等价链（2026-10-17 补）**：Studio 幕卡切「配音」+写台词即可——保存时台词变更自动
@@ -250,7 +252,7 @@ python3 autocut3/qc.py <pid> --story <sid>
 - **视频类型/平台档案（registry/video_types.json、registry/platforms.json，2026-10-15）**：
   类型=剪辑方法参数包（rhythm/draft_prompt 进起草提示词、defaults 作渲染回退、qc.duration_range 供 R11）；
   平台=响度锚（qc R6 与渲染后 loudnorm 精修都按故事线 meta.platform 查）。Studio 抽屉或直接改 JSON 维护，
-  起草传类型：`draft.py --type knowledge-koubo` / POST /api/draft body 加 "type"。
+  起草传类型：`draft.py --type knowledge-koubo` / POST /api/draft body 加 "type"（人设同理：--persona / body "persona"）。
   R3 静音洞≤0.8s / R4 冻结帧<2s / R5 字幕页≥0.5s / R6 响度锚 -16±3 LUFS /
   R7 听觉（洞>1.5s、相邻段差>8dB）/ R8 填充词 7 个+呃嗯 / R9 重说（4 字 ngram×12s 窗）/
   R10 页同步偏移≤0.5s。**warn 不拦交付但要在交付说明里如实列出**。

diff --git a/README.en.md b/README.en.md
@@ -34,7 +34,7 @@ This abstraction buys three things:
 **Creator**: pipeline progress bar on top (15 nodes with live ✓/○/✗/· status, same source as the orchestrator) | final-cut monitor | storyline outline and global settings (subtitle style/BGM/segment/cover) | the beat-sequence gold line (horizontal = timeline; ＋ inserts a beat; click a beat for a quick low-res proof).
 ![Creator](docs/screenshots/studio.png)
 
-**Library**: project cuts and repo-wide material packs; proofread transcripts in place; material cards carry review badges (✓ usable / ◌ pending / ✕ reject) and a defect log.
+**Library**: material packs mounted into the project (the only way materials enter) plus project cuts; proofread transcripts in place; material cards carry review badges (✓ usable / ◌ pending / ✕ reject) and a defect log.
 ![Library](docs/screenshots/library.png)
 
 ---

diff --git a/README.md b/README.md
@@ -34,7 +34,7 @@
 **创作台**：顶部管线进度条（十五节点 ✓/○/✗/· 实时状态，与编排器同源）｜成片监视器｜故事线大纲与全局设定（字幕风格/BGM/段落/封面）｜幕序列金线（横向即时间轴，＋插入新幕，点幕预览秒级低清样张）。
 ![创作台](docs/screenshots/studio.png)
 
-**素材库**：项目切片与仓库级素材包，转写文本就地校对，素材卡带审核徽标（✓ 可用 / ◌ 待审 / ✕ 拍摄废片）与缺陷台账。
+**素材库**：素材包挂载取用（素材的唯一入库形态）与项目切片，转写文本就地校对，素材卡带审核徽标（✓ 可用 / ◌ 待审 / ✕ 拍摄废片）与缺陷台账。
 ![素材库](docs/screenshots/library.png)
 
 ---
